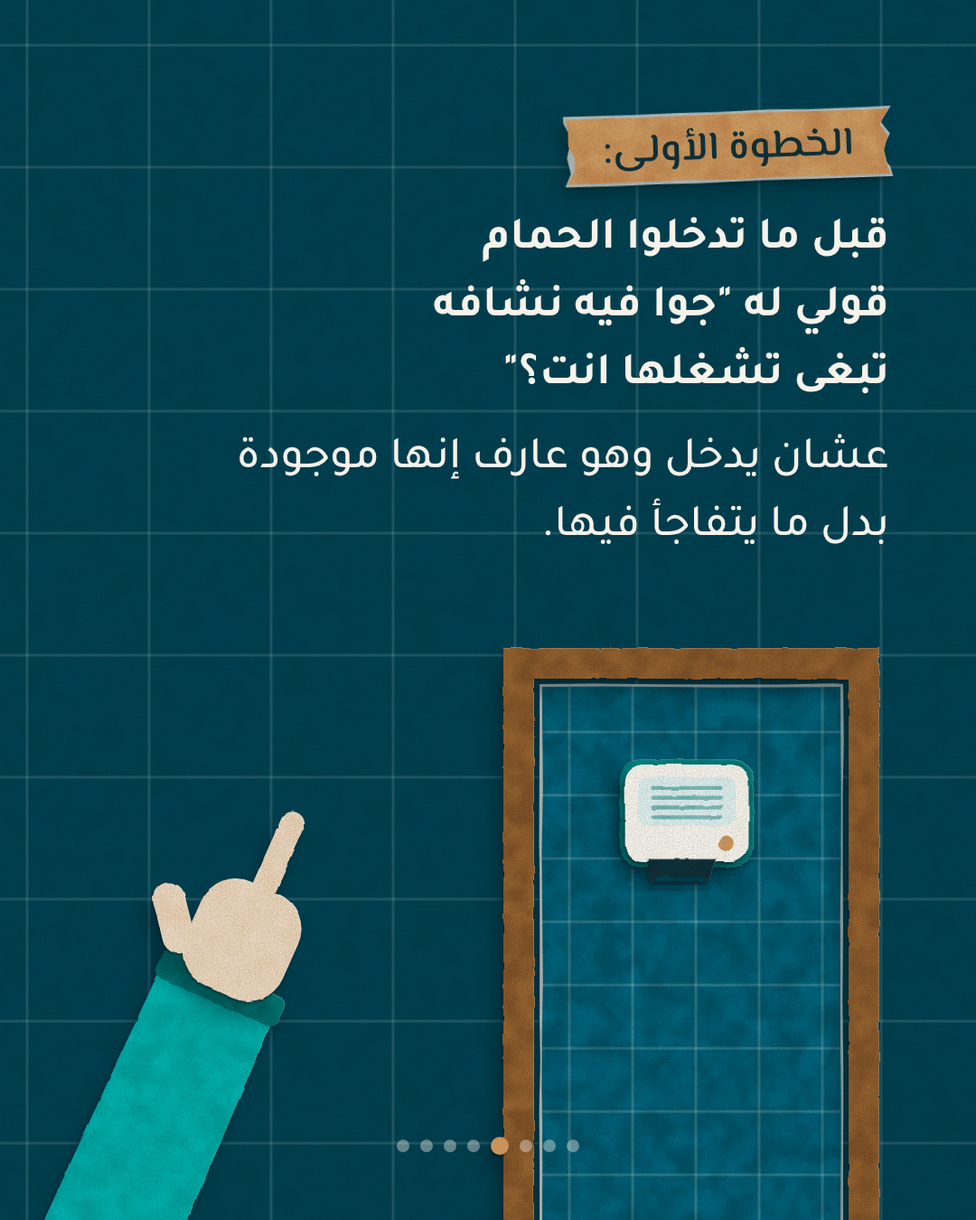
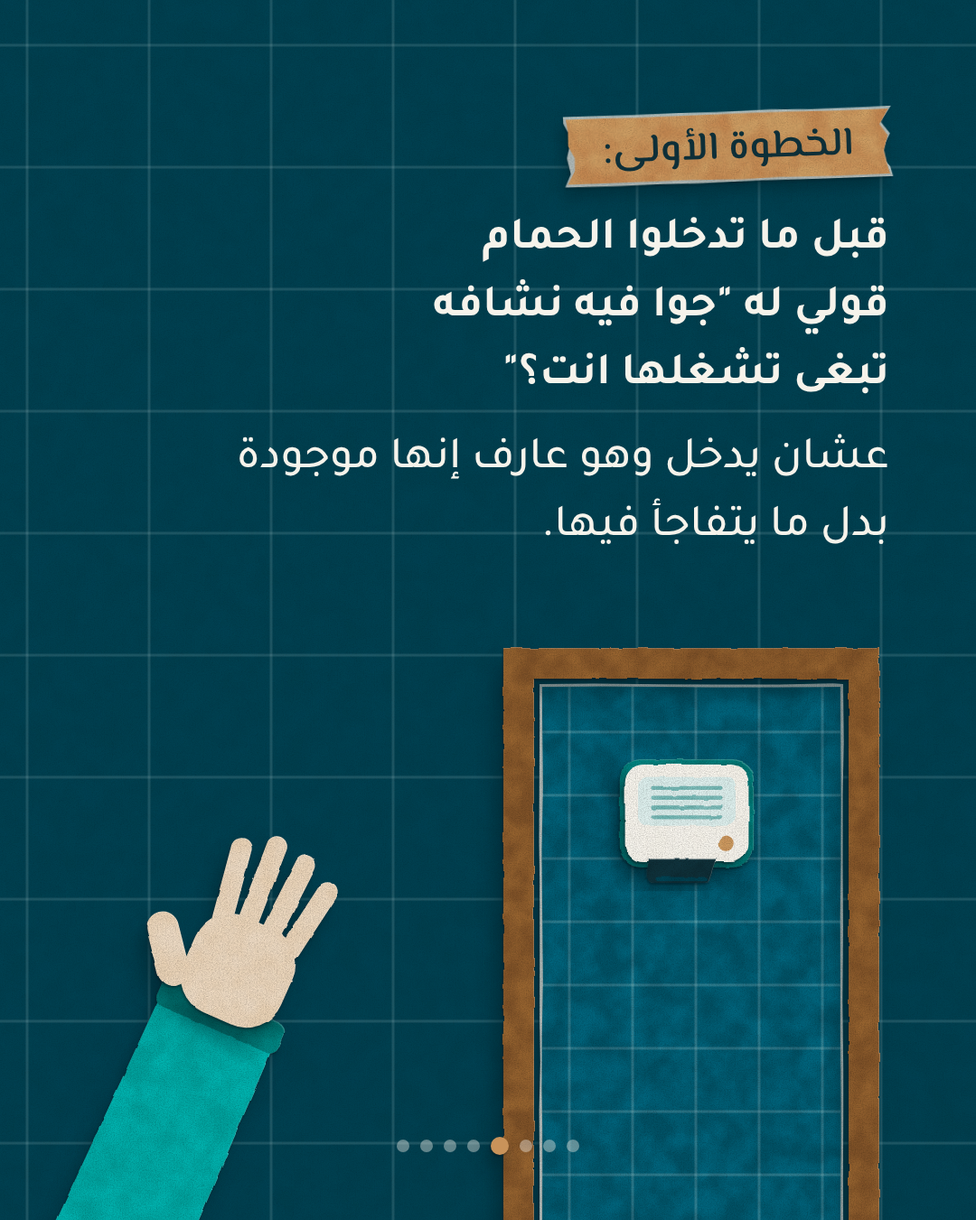
Batch 3: hand dryer fixes (no pointing finger on step 1, no bent thumbs on slide 1)
Claude-Session: https://claude.ai/code/session_01AkVcjtcCvi7vzmk2eT91xs

Changed region(s): [[0.0917, 0.6533, 0.3667, 0.9644], [0.0306, 0.9333, 0.0917, 1.0], [0.1833, 0.9644, 0.2139, 1.0]]

diff --git a/app/output_b3/b3p11/slide-1.html b/app/output_b3/b3p11/slide-1.html
@@ -281,7 +281,7 @@
 
 <svg class="art" viewBox="0 0 1080 1350" xmlns="http://www.w3.org/2000/svg">
 <rect x="0" y="0" width="1080" height="1350" fill="#003F4F" filter="url(#pg)" />
-<g stroke="#DCEEEC" stroke-opacity="0.13" stroke-width="3" fill="none"><path d="M 30 0 V 1350" /><path d="M 165 0 V 1350" /><path d="M 300 0 V 1350" /><path d="M 435 0 V 1350" /><path d="M 570 0 V 1350" /><path d="M 705 0 V 1350" /><path d="M 840 0 V 1350" /><path d="M 975 0 V 1350" /><path d="M 0 50 H 1080" /><path d="M 0 185 H 1080" /><path d="M 0 320 H 1080" /><path d="M 0 455 H 1080" /><path d="M 0 590 H 1080" /><path d="M 0 725 H 1080" /><path d="M 0 860 H 1080" /><path d="M 0 995 H 1080" /><path d="M 0 1130 H 1080" /><path d="M 0 1265 H 1080" /></g><g data-avoid="dryer"><g filter="url(#pc-d1)" ><g transform="translate(300 930) scale(0.9)"><rect x="-206" y="-166" width="412" height="332" rx="64" fill="#007A77"/></g></g><g filter="url(#pc-d2)" ><g transform="translate(300 930) scale(0.9)"><rect x="-190" y="-150" width="380" height="300" rx="56" fill="#F6F3EB"/><rect x="-150" y="-112" width="300" height="150" rx="30" fill="#DCEEEC"/><rect x="-110" y="-84" width="220" height="12" rx="6" fill="#007A77" fill-opacity=".45"/><rect x="-110" y="-54" width="220" height="12" rx="6" fill="#007A77" fill-opacity=".45"/><rect x="-110" y="-24" width="220" height="12" rx="6" fill="#007A77" fill-opacity=".45"/><rect x="-110" y="6" width="220" height="12" rx="6" fill="#007A77" fill-opacity=".45"/><circle cx="120" cy="92" r="24" fill="#C9935A"/></g></g><g filter="url(#pc-d3)" ><g transform="translate(300 930) scale(0.9)"><path d="M -120 140 L 90 140 L 70 200 Q 66 214 52 214 L -102 214 Q -116 214 -120 200 Z" fill="#0E2F38"/><rect x="-96" y="196" width="160" height="12" rx="6" fill="#003F4F"/></g></g><g filter="url(#pt-d2)" ><polygon points="218.6,1132.4 217.2,1148.1 217.4,1163.9 212.6,1179.4 211.4,1195.2 210.8,1210.9 209.9,1226.7 223.7,1227.5 218.7,1211.4 219.3,1195.6 225.6,1180.2 222.6,1164.2 221.4,1148.3 227.8,1132.9" fill="#F6F3EB" fill-opacity="0.7"/><polygon points="219.2,1132.4 215.3,1148.0 216.7,1163.9 219.1,1179.8 215.2,1195.4 212.8,1211.1 215.0,1227.0 219.6,1227.2 218.1,1211.4 216.9,1195.5 217.7,1179.7 219.6,1164.0 220.5,1148.3 225.8,1132.8" fill="#F6F3EB"/></g><g filter="url(#pt-d2)" ><polygon points="244.6,1132.2 245.6,1146.8 242.8,1161.2 241.3,1175.7 242.6,1190.2 241.1,1204.7 241.9,1219.3 239.1,1233.7 242.2,1248.3 244.0,1262.9 250.4,1263.2 248.2,1248.6 255.0,1234.3 250.6,1219.6 255.9,1205.3 254.8,1190.7 254.5,1176.2 258.3,1161.8 254.2,1147.1 258.4,1132.8" fill="#F6F3EB" fill-opacity="0.7"/><polygon points="250.3,1132.5 247.5,1146.9 247.4,1161.4 245.6,1175.8 244.2,1190.3 246.7,1204.9 247.7,1219.5 247.0,1234.0 242.1,1248.3 243.3,1262.9 250.8,1263.2 246.7,1248.5 250.3,1234.1 247.6,1219.5 251.8,1205.1 250.4,1190.6 254.4,1176.2 255.2,1161.7 253.9,1147.1 252.7,1132.6" fill="#DCEEEC"/></g><g filter="url(#pt-d2)" ><polygon points="280.5,1132.4 273.5,1147.8 278.0,1163.9 273.0,1179.4 275.0,1195.3 270.0,1210.8 271.8,1226.7 282.6,1227.3 285.2,1211.7 284.3,1195.8 287.3,1180.2 287.8,1164.4 288.3,1148.7 283.4,1132.6" fill="#F6F3EB" fill-opacity="0.7"/><polygon points="278.5,1132.3 278.6,1148.1 279.9,1164.0 276.5,1179.6 276.5,1195.4 272.2,1210.9 273.8,1226.8 278.8,1227.1 278.9,1211.3 281.6,1195.7 282.1,1179.9 280.6,1164.0 280.1,1148.2 283.6,1132.6" fill="#F6F3EB"/></g><g filter="url(#pt-d2)" ><polygon points="308.9,1132.3 309.3,1146.9 309.0,1161.4 302.7,1175.7 307.1,1190.4 307.3,1204.9 304.9,1219.3 300.3,1233.7 305.9,1248.4 298.8,1262.7 309.4,1263.1 310.3,1248.6 315.9,1234.3 310.4,1219.6 317.7,1205.3 315.8,1190.7 315.5,1176.2 315.6,1161.7 315.1,1147.1 319.6,1132.8" fill="#F6F3EB" fill-opacity="0.7"/><polygon points="313.6,1132.5 308.4,1146.9 308.3,1161.4 305.8,1175.8 308.8,1190.4 305.1,1204.8 307.3,1219.4 308.4,1234.0 307.9,1248.5 306.1,1263.0 305.8,1262.9 312.4,1248.7 311.2,1234.1 308.0,1219.5 309.6,1205.0 311.8,1190.6 313.2,1176.1 313.4,1161.6 315.6,1147.1 317.4,1132.7" fill="#DCEEEC"/></g><g filter="url(#pt-d2)" ><polygon points="340.1,1132.3 340.0,1148.1 335.1,1163.6 334.2,1179.4 337.9,1195.4 335.5,1211.1 332.1,1226.7 341.2,1227.2 346.0,1211.7 344.4,1195.8 347.4,1180.1 347.3,1164.3 350.1,1148.7 350.7,1132.9" fill="#F6F3EB" fill-opacity="0.7"/><polygon points="341.1,1132.4 337.9,1148.0 336.2,1163.7 337.7,1179.6 338.4,1195.4 337.8,1211.2 332.8,1226.7 341.0,1227.2 337.9,1211.2 341.3,1195.6 345.4,1180.0 341.1,1164.0 347.2,1148.5 348.2,1132.8" fill="#F6F3EB"/></g></g><g data-avoid="arcs"><g filter="url(#pt-d2)" ><polygon points="108.6,1019.7 102.2,1009.8 95.0,999.8 94.1,987.9 91.7,976.5 88.3,965.2 85.2,953.8 85.9,942.0 88.6,930.4 83.4,918.4 89.1,907.3 88.1,895.3 94.6,884.9 92.9,872.4 98.8,862.1 103.3,851.4 104.3,838.5 86.7,830.8 83.2,842.7 73.7,852.8 71.8,865.8 67.8,878.2 66.6,891.1 66.4,904.1 63.1,916.7 64.1,929.7 63.2,942.6 63.9,955.5 65.3,968.4 70.6,980.6 68.8,994.2 73.0,1006.7 77.5,1018.9 84.3,1030.2" fill="#F6F3EB" fill-opacity="0.7"/><polygon points="104.5,1021.4 100.4,1010.4 96.7,999.3 90.5,988.8 90.5,976.7 86.8,965.4 81.8,954.1 84.2,942.0 84.0,930.2 84.9,918.5 85.9,906.8 89.3,895.5 90.4,883.8 92.4,872.2 96.9,861.4 100.9,850.4 106.6,839.5 85.8,830.5 84.1,843.1 78.3,854.5 78.1,867.8 71.4,879.1 68.3,891.5 71.3,904.8 66.1,917.0 63.5,929.7 66.9,942.5 66.1,955.3 67.1,968.2 72.6,980.2 74.6,992.8 75.9,1005.7 80.8,1017.7 88.1,1028.5" fill="#C9935A"/></g><g filter="url(#pt-d2)" ><polygon points="58.5,1043.0 53.0,1029.5 44.6,1017.0 44.0,1002.0 35.6,988.8 33.1,974.3 34.7,959.4 34.3,944.9 31.9,930.3 31.3,915.6 36.0,901.5 37.4,887.0 39.2,872.5 43.0,858.5 41.9,842.6 50.9,830.3 56.3,816.1 40.7,809.3 34.9,823.4 23.6,835.8 19.3,851.2 14.6,866.4 12.8,882.2 12.8,898.3 10.8,913.9 8.5,929.7 11.8,945.5 12.1,961.2 14.1,976.9 15.2,992.8 19.8,1008.0 28.9,1021.8 28.6,1038.6 35.4,1053.0" fill="#F6F3EB" fill-opacity="0.7"/><polygon points="55.7,1044.2 46.2,1032.0 44.1,1017.1 40.2,1002.9 34.5,989.0 32.8,974.3 29.0,959.9 28.6,945.0 25.3,930.1 31.7,915.6 28.4,900.4 34.7,886.5 34.9,871.4 38.2,857.0 41.3,842.4 50.2,830.0 52.0,814.2 37.9,808.1 34.1,823.0 26.2,836.8 23.9,852.6 22.4,868.3 17.1,883.1 12.6,898.2 15.9,914.3 17.0,929.9 14.8,945.4 14.4,961.1 20.3,976.1 20.0,991.9 21.6,1007.6 30.1,1021.4 31.5,1037.5 43.4,1049.5" fill="#8A5A2B"/></g><g filter="url(#pt-d2)" ><polygon points="5.9,1067.4 -1.0,1051.1 -9.8,1035.3 -12.6,1017.7 -19.0,1000.9 -19.4,983.0 -21.7,965.5 -22.4,947.9 -25.6,930.2 -23.3,912.6 -23.2,894.8 -20.7,877.3 -15.7,860.3 -15.2,842.0 -4.9,826.8 -1.8,809.0 4.8,792.1 -10.6,785.5 -19.0,801.6 -25.5,819.2 -29.5,837.6 -34.6,855.6 -37.4,874.0 -41.2,892.4 -41.7,911.1 -40.8,929.8 -40.7,948.4 -39.5,967.0 -38.8,985.7 -35.1,1004.0 -27.8,1021.5 -20.2,1038.5 -18.7,1057.6 -9.5,1074.1" fill="#F6F3EB" fill-opacity="0.7"/><polygon points="1.9,1069.1 -5.9,1052.9 -10.7,1035.6 -12.9,1017.7 -22.7,1001.6 -24.4,983.7 -26.3,965.9 -28.2,948.0 -27.2,930.2 -25.1,912.5 -26.9,894.3 -19.8,877.5 -17.8,859.8 -13.5,842.5 -11.2,824.5 -1.9,809.0 4.3,791.9 -7.8,786.7 -12.7,804.4 -18.9,821.6 -25.9,838.7 -32.5,856.1 -35.9,874.3 -34.2,893.3 -37.9,911.4 -39.5,929.8 -38.7,948.3 -33.9,966.5 -36.6,985.3 -32.0,1003.4 -26.6,1021.2 -20.5,1038.6 -12.3,1055.3 -5.7,1072.4" fill="#C9935A"/></g><g filter="url(#pt-d2)" ><polygon points="491.4,840.3 497.8,850.2 505.0,860.2 505.9,872.1 508.3,883.5 511.7,894.8 514.8,906.2 514.1,918.0 511.4,929.6 516.6,941.6 510.9,952.7 511.9,964.7 505.4,975.1 507.1,987.6 501.2,997.9 496.7,1008.6 495.7,1021.5 513.3,1029.2 516.8,1017.3 526.3,1007.2 528.2,994.2 532.2,981.8 533.4,968.9 533.6,955.9 536.9,943.3 535.9,930.3 536.8,917.4 536.1,904.5 534.7,891.6 529.4,879.4 531.2,865.8 527.0,853.3 522.5,841.1 515.7,829.8" fill="#F6F3EB" fill-opacity="0.7"/><polygon points="495.5,838.6 499.6,849.6 503.3,860.7 509.5,871.2 509.5,883.3 513.2,894.6 518.2,905.9 515.8,918.0 516.0,929.8 515.1,941.5 514.1,953.2 510.7,964.5 509.6,976.2 507.6,987.8 503.1,998.6 499.1,1009.6 493.4,1020.5 514.2,1029.5 515.9,1016.9 521.7,1005.5 521.9,992.2 528.6,980.9 531.7,968.5 528.7,955.2 533.9,943.0 536.5,930.3 533.1,917.5 533.9,904.7 532.9,891.8 527.4,879.8 525.4,867.2 524.1,854.3 519.2,842.3 511.9,831.5" fill="#C9935A"/></g><g filter="url(#pt-d2)" ><polygon points="541.5,817.0 547.0,830.5 555.4,843.0 556.0,858.0 564.4,871.2 566.9,885.7 565.3,900.6 565.7,915.1 568.1,929.7 568.7,944.4 564.0,958.5 562.6,973.0 560.8,987.5 557.0,1001.5 558.1,1017.4 549.1,1029.7 543.7,1043.9 559.3,1050.7 565.1,1036.6 576.4,1024.2 580.7,1008.8 585.4,993.6 587.2,977.8 587.2,961.7 589.2,946.1 591.5,930.3 588.2,914.5 587.9,898.8 585.9,883.1 584.8,867.2 580.2,852.0 571.1,838.2 571.4,821.4 564.6,807.0" fill="#F6F3EB" fill-opacity="0.7"/><polygon points="544.3,815.8 553.8,828.0 555.9,842.9 559.8,857.1 565.5,871.0 567.2,885.7 571.0,900.1 571.4,915.0 574.7,929.9 568.3,944.4 571.6,959.6 565.3,973.5 565.1,988.6 561.8,1003.0 558.7,1017.6 549.8,1030.0 548.0,1045.8 562.1,1051.9 565.9,1037.0 573.8,1023.2 576.1,1007.4 577.6,991.7 582.9,976.9 587.4,961.8 584.1,945.7 583.0,930.1 585.2,914.6 585.6,898.9 579.7,883.9 580.0,868.1 578.4,852.4 569.9,838.6 568.5,822.5 556.6,810.5" fill="#8A5A2B"/></g><g filter="url(#pt-d2)" ><polygon points="594.1,792.6 601.0,808.9 609.8,824.7 612.6,842.3 619.0,859.1 619.4,877.0 621.7,894.5 622.4,912.1 625.6,929.8 623.3,947.4 623.2,965.2 620.7,982.7 615.7,999.7 615.2,1018.0 604.9,1033.2 601.8,1051.0 595.2,1067.9 610.6,1074.5 619.0,1058.4 625.5,1040.8 629.5,1022.4 634.6,1004.4 637.4,986.0 641.2,967.6 641.7,948.9 640.8,930.2 640.7,911.6 639.5,893.0 638.8,874.3 635.1,856.0 627.8,838.5 620.2,821.5 618.7,802.4 609.5,785.9" fill="#F6F3EB" fill-opacity="0.7"/><polygon points="598.1,790.9 605.9,807.1 610.7,824.4 612.9,842.3 622.7,858.4 624.4,876.3 626.3,894.1 628.2,912.0 627.2,929.8 625.1,947.5 626.9,965.7 619.8,982.5 617.8,1000.2 613.5,1017.5 611.2,1035.5 601.9,1051.0 595.7,1068.1 607.8,1073.3 612.7,1055.6 618.9,1038.4 625.9,1021.3 632.5,1003.9 635.9,985.7 634.2,966.7 637.9,948.6 639.5,930.2 638.7,911.7 633.9,893.5 636.6,874.7 632.0,856.6 626.6,838.8 620.5,821.4 612.3,804.7 605.7,787.6" fill="#C9935A"/></g></g><g data-avoid="head"><g filter="url(#pc-d1)" ><path d="M 538.0 1548.0 Q 552.5 1352.25 770 1345 Q 987.5 1352.25 1002.0 1548.0 Z" fill="#00A9A5"/><rect x="726.5" y="1279.75" width="87.0" height="87.0" rx="29.0" fill="#EBD6BC"/></g><g filter="url(#pc-d2)" ><circle cx="770" cy="1200" r="145" fill="#8A5A2B"/></g><g filter="url(#pc-d3)" ><g transform="translate(625.0 1214.5) rotate(14)"><path d="M -10 40 L -130 600 L -330 600 L -110 40 Z" fill="#F6F3EB"/><rect x="-80" y="30" width="80" height="40" rx="12" fill="#DCEEEC"/><rect x="-54" y="-40" width="108" height="110" rx="40" fill="#EBD6BC"/><rect x="-50" y="-100" width="22" height="110" rx="11" fill="#EBD6BC" transform="rotate(-7.5 -39 0)"/><rect x="-24" y="-112" width="22" height="110" rx="11" fill="#EBD6BC" transform="rotate(-2.5 -13 0)"/><rect x="2" y="-112" width="22" height="110" rx="11" fill="#EBD6BC" transform="rotate(2.5 13 0)"/><rect x="28" y="-100" width="22" height="110" rx="11" fill="#EBD6BC" transform="rotate(7.5 39 0)"/><rect x="53" y="-20" width="34" height="84" rx="17" fill="#EBD6BC" transform="rotate(-30 70 20)"/></g></g><g filter="url(#pc-d3)" ><g transform="translate(915.0 1214.5) rotate(-14)"><path d="M 10 40 L 130 600 L 330 600 L 110 40 Z" fill="#F6F3EB"/><rect x="20" y="30" width="80" height="40" rx="12" fill="#DCEEEC"/><rect x="-54" y="-40" width="108" height="110" rx="40" fill="#EBD6BC"/><rect x="-50" y="-100" width="22" height="110" rx="11" fill="#EBD6BC" transform="rotate(-7.5 -39 0)"/><rect x="-24" y="-112" width="22" height="110" rx="11" fill="#EBD6BC" transform="rotate(-2.5 -13 0)"/><rect x="2" y="-112" width="22" height="110" rx="11" fill="#EBD6BC" transform="rotate(2.5 13 0)"/><rect x="28" y="-100" width="22" height="110" rx="11" fill="#EBD6BC" transform="rotate(7.5 39 0)"/><rect x="-87" y="-20" width="34" height="84" rx="17" fill="#EBD6BC" transform="rotate(30 -70 20)"/></g></g><g filter="url(#pc-d1)" ><path d="M 581.5 1311.3 Q 593.5 1328.1 581.5 1342.5 Q 569.5 1328.1 581.5 1311.3 Z" fill="#00A9A5"/></g><g filter="url(#pc-d1)" ><path d="M 965.75 1325.8 Q 977.75 1342.6 965.75 1357.0 Q 953.75 1342.6 965.75 1325.8 Z" fill="#00A9A5"/></g><g filter="url(#pc-d1)" ><path d="M 610.5 1376.55 Q 622.5 1393.35 610.5 1407.75 Q 598.5 1393.35 610.5 1376.55 Z" fill="#00A9A5"/></g></g>
+<g stroke="#DCEEEC" stroke-opacity="0.13" stroke-width="3" fill="none"><path d="M 30 0 V 1350" /><path d="M 165 0 V 1350" /><path d="M 300 0 V 1350" /><path d="M 435 0 V 1350" /><path d="M 570 0 V 1350" /><path d="M 705 0 V 1350" /><path d="M 840 0 V 1350" /><path d="M 975 0 V 1350" /><path d="M 0 50 H 1080" /><path d="M 0 185 H 1080" /><path d="M 0 320 H 1080" /><path d="M 0 455 H 1080" /><path d="M 0 590 H 1080" /><path d="M 0 725 H 1080" /><path d="M 0 860 H 1080" /><path d="M 0 995 H 1080" /><path d="M 0 1130 H 1080" /><path d="M 0 1265 H 1080" /></g><g data-avoid="dryer"><g filter="url(#pc-d1)" ><g transform="translate(300 930) scale(0.9)"><rect x="-206" y="-166" width="412" height="332" rx="64" fill="#007A77"/></g></g><g filter="url(#pc-d2)" ><g transform="translate(300 930) scale(0.9)"><rect x="-190" y="-150" width="380" height="300" rx="56" fill="#F6F3EB"/><rect x="-150" y="-112" width="300" height="150" rx="30" fill="#DCEEEC"/><rect x="-110" y="-84" width="220" height="12" rx="6" fill="#007A77" fill-opacity=".45"/><rect x="-110" y="-54" width="220" height="12" rx="6" fill="#007A77" fill-opacity=".45"/><rect x="-110" y="-24" width="220" height="12" rx="6" fill="#007A77" fill-opacity=".45"/><rect x="-110" y="6" width="220" height="12" rx="6" fill="#007A77" fill-opacity=".45"/><circle cx="120" cy="92" r="24" fill="#C9935A"/></g></g><g filter="url(#pc-d3)" ><g transform="translate(300 930) scale(0.9)"><path d="M -120 140 L 90 140 L 70 200 Q 66 214 52 214 L -102 214 Q -116 214 -120 200 Z" fill="#0E2F38"/><rect x="-96" y="196" width="160" height="12" rx="6" fill="#003F4F"/></g></g><g filter="url(#pt-d2)" ><polygon points="218.6,1132.4 217.2,1148.1 217.4,1163.9 212.6,1179.4 211.4,1195.2 210.8,1210.9 209.9,1226.7 223.7,1227.5 218.7,1211.4 219.3,1195.6 225.6,1180.2 222.6,1164.2 221.4,1148.3 227.8,1132.9" fill="#F6F3EB" fill-opacity="0.7"/><polygon points="219.2,1132.4 215.3,1148.0 216.7,1163.9 219.1,1179.8 215.2,1195.4 212.8,1211.1 215.0,1227.0 219.6,1227.2 218.1,1211.4 216.9,1195.5 217.7,1179.7 219.6,1164.0 220.5,1148.3 225.8,1132.8" fill="#F6F3EB"/></g><g filter="url(#pt-d2)" ><polygon points="244.6,1132.2 245.6,1146.8 242.8,1161.2 241.3,1175.7 242.6,1190.2 241.1,1204.7 241.9,1219.3 239.1,1233.7 242.2,1248.3 244.0,1262.9 250.4,1263.2 248.2,1248.6 255.0,1234.3 250.6,1219.6 255.9,1205.3 254.8,1190.7 254.5,1176.2 258.3,1161.8 254.2,1147.1 258.4,1132.8" fill="#F6F3EB" fill-opacity="0.7"/><polygon points="250.3,1132.5 247.5,1146.9 247.4,1161.4 245.6,1175.8 244.2,1190.3 246.7,1204.9 247.7,1219.5 247.0,1234.0 242.1,1248.3 243.3,1262.9 250.8,1263.2 246.7,1248.5 250.3,1234.1 247.6,1219.5 251.8,1205.1 250.4,1190.6 254.4,1176.2 255.2,1161.7 253.9,1147.1 252.7,1132.6" fill="#DCEEEC"/></g><g filter="url(#pt-d2)" ><polygon points="280.5,1132.4 273.5,1147.8 278.0,1163.9 273.0,1179.4 275.0,1195.3 270.0,1210.8 271.8,1226.7 282.6,1227.3 285.2,1211.7 284.3,1195.8 287.3,1180.2 287.8,1164.4 288.3,1148.7 283.4,1132.6" fill="#F6F3EB" fill-opacity="0.7"/><polygon points="278.5,1132.3 278.6,1148.1 279.9,1164.0 276.5,1179.6 276.5,1195.4 272.2,1210.9 273.8,1226.8 278.8,1227.1 278.9,1211.3 281.6,1195.7 282.1,1179.9 280.6,1164.0 280.1,1148.2 283.6,1132.6" fill="#F6F3EB"/></g><g filter="url(#pt-d2)" ><polygon points="308.9,1132.3 309.3,1146.9 309.0,1161.4 302.7,1175.7 307.1,1190.4 307.3,1204.9 304.9,1219.3 300.3,1233.7 305.9,1248.4 298.8,1262.7 309.4,1263.1 310.3,1248.6 315.9,1234.3 310.4,1219.6 317.7,1205.3 315.8,1190.7 315.5,1176.2 315.6,1161.7 315.1,1147.1 319.6,1132.8" fill="#F6F3EB" fill-opacity="0.7"/><polygon points="313.6,1132.5 308.4,1146.9 308.3,1161.4 305.8,1175.8 308.8,1190.4 305.1,1204.8 307.3,1219.4 308.4,1234.0 307.9,1248.5 306.1,1263.0 305.8,1262.9 312.4,1248.7 311.2,1234.1 308.0,1219.5 309.6,1205.0 311.8,1190.6 313.2,1176.1 313.4,1161.6 315.6,1147.1 317.4,1132.7" fill="#DCEEEC"/></g><g filter="url(#pt-d2)" ><polygon points="340.1,1132.3 340.0,1148.1 335.1,1163.6 334.2,1179.4 337.9,1195.4 335.5,1211.1 332.1,1226.7 341.2,1227.2 346.0,1211.7 344.4,1195.8 347.4,1180.1 347.3,1164.3 350.1,1148.7 350.7,1132.9" fill="#F6F3EB" fill-opacity="0.7"/><polygon points="341.1,1132.4 337.9,1148.0 336.2,1163.7 337.7,1179.6 338.4,1195.4 337.8,1211.2 332.8,1226.7 341.0,1227.2 337.9,1211.2 341.3,1195.6 345.4,1180.0 341.1,1164.0 347.2,1148.5 348.2,1132.8" fill="#F6F3EB"/></g></g><g data-avoid="arcs"><g filter="url(#pt-d2)" ><polygon points="108.6,1019.7 102.2,1009.8 95.0,999.8 94.1,987.9 91.7,976.5 88.3,965.2 85.2,953.8 85.9,942.0 88.6,930.4 83.4,918.4 89.1,907.3 88.1,895.3 94.6,884.9 92.9,872.4 98.8,862.1 103.3,851.4 104.3,838.5 86.7,830.8 83.2,842.7 73.7,852.8 71.8,865.8 67.8,878.2 66.6,891.1 66.4,904.1 63.1,916.7 64.1,929.7 63.2,942.6 63.9,955.5 65.3,968.4 70.6,980.6 68.8,994.2 73.0,1006.7 77.5,1018.9 84.3,1030.2" fill="#F6F3EB" fill-opacity="0.7"/><polygon points="104.5,1021.4 100.4,1010.4 96.7,999.3 90.5,988.8 90.5,976.7 86.8,965.4 81.8,954.1 84.2,942.0 84.0,930.2 84.9,918.5 85.9,906.8 89.3,895.5 90.4,883.8 92.4,872.2 96.9,861.4 100.9,850.4 106.6,839.5 85.8,830.5 84.1,843.1 78.3,854.5 78.1,867.8 71.4,879.1 68.3,891.5 71.3,904.8 66.1,917.0 63.5,929.7 66.9,942.5 66.1,955.3 67.1,968.2 72.6,980.2 74.6,992.8 75.9,1005.7 80.8,1017.7 88.1,1028.5" fill="#C9935A"/></g><g filter="url(#pt-d2)" ><polygon points="58.5,1043.0 53.0,1029.5 44.6,1017.0 44.0,1002.0 35.6,988.8 33.1,974.3 34.7,959.4 34.3,944.9 31.9,930.3 31.3,915.6 36.0,901.5 37.4,887.0 39.2,872.5 43.0,858.5 41.9,842.6 50.9,830.3 56.3,816.1 40.7,809.3 34.9,823.4 23.6,835.8 19.3,851.2 14.6,866.4 12.8,882.2 12.8,898.3 10.8,913.9 8.5,929.7 11.8,945.5 12.1,961.2 14.1,976.9 15.2,992.8 19.8,1008.0 28.9,1021.8 28.6,1038.6 35.4,1053.0" fill="#F6F3EB" fill-opacity="0.7"/><polygon points="55.7,1044.2 46.2,1032.0 44.1,1017.1 40.2,1002.9 34.5,989.0 32.8,974.3 29.0,959.9 28.6,945.0 25.3,930.1 31.7,915.6 28.4,900.4 34.7,886.5 34.9,871.4 38.2,857.0 41.3,842.4 50.2,830.0 52.0,814.2 37.9,808.1 34.1,823.0 26.2,836.8 23.9,852.6 22.4,868.3 17.1,883.1 12.6,898.2 15.9,914.3 17.0,929.9 14.8,945.4 14.4,961.1 20.3,976.1 20.0,991.9 21.6,1007.6 30.1,1021.4 31.5,1037.5 43.4,1049.5" fill="#8A5A2B"/></g><g filter="url(#pt-d2)" ><polygon points="5.9,1067.4 -1.0,1051.1 -9.8,1035.3 -12.6,1017.7 -19.0,1000.9 -19.4,983.0 -21.7,965.5 -22.4,947.9 -25.6,930.2 -23.3,912.6 -23.2,894.8 -20.7,877.3 -15.7,860.3 -15.2,842.0 -4.9,826.8 -1.8,809.0 4.8,792.1 -10.6,785.5 -19.0,801.6 -25.5,819.2 -29.5,837.6 -34.6,855.6 -37.4,874.0 -41.2,892.4 -41.7,911.1 -40.8,929.8 -40.7,948.4 -39.5,967.0 -38.8,985.7 -35.1,1004.0 -27.8,1021.5 -20.2,1038.5 -18.7,1057.6 -9.5,1074.1" fill="#F6F3EB" fill-opacity="0.7"/><polygon points="1.9,1069.1 -5.9,1052.9 -10.7,1035.6 -12.9,1017.7 -22.7,1001.6 -24.4,983.7 -26.3,965.9 -28.2,948.0 -27.2,930.2 -25.1,912.5 -26.9,894.3 -19.8,877.5 -17.8,859.8 -13.5,842.5 -11.2,824.5 -1.9,809.0 4.3,791.9 -7.8,786.7 -12.7,804.4 -18.9,821.6 -25.9,838.7 -32.5,856.1 -35.9,874.3 -34.2,893.3 -37.9,911.4 -39.5,929.8 -38.7,948.3 -33.9,966.5 -36.6,985.3 -32.0,1003.4 -26.6,1021.2 -20.5,1038.6 -12.3,1055.3 -5.7,1072.4" fill="#C9935A"/></g><g filter="url(#pt-d2)" ><polygon points="491.4,840.3 497.8,850.2 505.0,860.2 505.9,872.1 508.3,883.5 511.7,894.8 514.8,906.2 514.1,918.0 511.4,929.6 516.6,941.6 510.9,952.7 511.9,964.7 505.4,975.1 507.1,987.6 501.2,997.9 496.7,1008.6 495.7,1021.5 513.3,1029.2 516.8,1017.3 526.3,1007.2 528.2,994.2 532.2,981.8 533.4,968.9 533.6,955.9 536.9,943.3 535.9,930.3 536.8,917.4 536.1,904.5 534.7,891.6 529.4,879.4 531.2,865.8 527.0,853.3 522.5,841.1 515.7,829.8" fill="#F6F3EB" fill-opacity="0.7"/><polygon points="495.5,838.6 499.6,849.6 503.3,860.7 509.5,871.2 509.5,883.3 513.2,894.6 518.2,905.9 515.8,918.0 516.0,929.8 515.1,941.5 514.1,953.2 510.7,964.5 509.6,976.2 507.6,987.8 503.1,998.6 499.1,1009.6 493.4,1020.5 514.2,1029.5 515.9,1016.9 521.7,1005.5 521.9,992.2 528.6,980.9 531.7,968.5 528.7,955.2 533.9,943.0 536.5,930.3 533.1,917.5 533.9,904.7 532.9,891.8 527.4,879.8 525.4,867.2 524.1,854.3 519.2,842.3 511.9,831.5" fill="#C9935A"/></g><g filter="url(#pt-d2)" ><polygon points="541.5,817.0 547.0,830.5 555.4,843.0 556.0,858.0 564.4,871.2 566.9,885.7 565.3,900.6 565.7,915.1 568.1,929.7 568.7,944.4 564.0,958.5 562.6,973.0 560.8,987.5 557.0,1001.5 558.1,1017.4 549.1,1029.7 543.7,1043.9 559.3,1050.7 565.1,1036.6 576.4,1024.2 580.7,1008.8 585.4,993.6 587.2,977.8 587.2,961.7 589.2,946.1 591.5,930.3 588.2,914.5 587.9,898.8 585.9,883.1 584.8,867.2 580.2,852.0 571.1,838.2 571.4,821.4 564.6,807.0" fill="#F6F3EB" fill-opacity="0.7"/><polygon points="544.3,815.8 553.8,828.0 555.9,842.9 559.8,857.1 565.5,871.0 567.2,885.7 571.0,900.1 571.4,915.0 574.7,929.9 568.3,944.4 571.6,959.6 565.3,973.5 565.1,988.6 561.8,1003.0 558.7,1017.6 549.8,1030.0 548.0,1045.8 562.1,1051.9 565.9,1037.0 573.8,1023.2 576.1,1007.4 577.6,991.7 582.9,976.9 587.4,961.8 584.1,945.7 583.0,930.1 585.2,914.6 585.6,898.9 579.7,883.9 580.0,868.1 578.4,852.4 569.9,838.6 568.5,822.5 556.6,810.5" fill="#8A5A2B"/></g><g filter="url(#pt-d2)" ><polygon points="594.1,792.6 601.0,808.9 609.8,824.7 612.6,842.3 619.0,859.1 619.4,877.0 621.7,894.5 622.4,912.1 625.6,929.8 623.3,947.4 623.2,965.2 620.7,982.7 615.7,999.7 615.2,1018.0 604.9,1033.2 601.8,1051.0 595.2,1067.9 610.6,1074.5 619.0,1058.4 625.5,1040.8 629.5,1022.4 634.6,1004.4 637.4,986.0 641.2,967.6 641.7,948.9 640.8,930.2 640.7,911.6 639.5,893.0 638.8,874.3 635.1,856.0 627.8,838.5 620.2,821.5 618.7,802.4 609.5,785.9" fill="#F6F3EB" fill-opacity="0.7"/><polygon points="598.1,790.9 605.9,807.1 610.7,824.4 612.9,842.3 622.7,858.4 624.4,876.3 626.3,894.1 628.2,912.0 627.2,929.8 625.1,947.5 626.9,965.7 619.8,982.5 617.8,1000.2 613.5,1017.5 611.2,1035.5 601.9,1051.0 595.7,1068.1 607.8,1073.3 612.7,1055.6 618.9,1038.4 625.9,1021.3 632.5,1003.9 635.9,985.7 634.2,966.7 637.9,948.6 639.5,930.2 638.7,911.7 633.9,893.5 636.6,874.7 632.0,856.6 626.6,838.8 620.5,821.4 612.3,804.7 605.7,787.6" fill="#C9935A"/></g></g><g data-avoid="head"><g filter="url(#pc-d1)" ><path d="M 538.0 1548.0 Q 552.5 1352.25 770 1345 Q 987.5 1352.25 1002.0 1548.0 Z" fill="#00A9A5"/><rect x="726.5" y="1279.75" width="87.0" height="87.0" rx="29.0" fill="#EBD6BC"/></g><g filter="url(#pc-d2)" ><circle cx="770" cy="1200" r="145" fill="#8A5A2B"/></g><g filter="url(#pc-d3)" ><g transform="translate(625.0 1214.5) rotate(14)"><path d="M -10 40 L -130 600 L -330 600 L -110 40 Z" fill="#F6F3EB"/><rect x="-80" y="30" width="80" height="40" rx="12" fill="#DCEEEC"/><rect x="-54" y="-40" width="108" height="110" rx="40" fill="#EBD6BC"/><rect x="-50" y="-100" width="22" height="110" rx="11" fill="#EBD6BC" transform="rotate(-7.5 -39 0)"/><rect x="-24" y="-112" width="22" height="110" rx="11" fill="#EBD6BC" transform="rotate(-2.5 -13 0)"/><rect x="2" y="-112" width="22" height="110" rx="11" fill="#EBD6BC" transform="rotate(2.5 13 0)"/><rect x="28" y="-100" width="22" height="110" rx="11" fill="#EBD6BC" transform="rotate(7.5 39 0)"/></g></g><g filter="url(#pc-d3)" ><g transform="translate(915.0 1214.5) rotate(-14)"><path d="M 10 40 L 130 600 L 330 600 L 110 40 Z" fill="#F6F3EB"/><rect x="20" y="30" width="80" height="40" rx="12" fill="#DCEEEC"/><rect x="-54" y="-40" width="108" height="110" rx="40" fill="#EBD6BC"/><rect x="-50" y="-100" width="22" height="110" rx="11" fill="#EBD6BC" transform="rotate(-7.5 -39 0)"/><rect x="-24" y="-112" width="22" height="110" rx="11" fill="#EBD6BC" transform="rotate(-2.5 -13 0)"/><rect x="2" y="-112" width="22" height="110" rx="11" fill="#EBD6BC" transform="rotate(2.5 13 0)"/><rect x="28" y="-100" width="22" height="110" rx="11" fill="#EBD6BC" transform="rotate(7.5 39 0)"/></g></g><g filter="url(#pc-d1)" ><path d="M 581.5 1311.3 Q 593.5 1328.1 581.5 1342.5 Q 569.5 1328.1 581.5 1311.3 Z" fill="#00A9A5"/></g><g filter="url(#pc-d1)" ><path d="M 965.75 1325.8 Q 977.75 1342.6 965.75 1357.0 Q 953.75 1342.6 965.75 1325.8 Z" fill="#00A9A5"/></g><g filter="url(#pc-d1)" ><path d="M 610.5 1376.55 Q 622.5 1393.35 610.5 1407.75 Q 598.5 1393.35 610.5 1376.55 Z" fill="#00A9A5"/></g></g>
 </svg>
 <div class="tx c-pearl " style="left:64px;top:100px;width:920px;text-align:right;"><div class="hook" style="font-size:88px" data-seg data-ord="0" data-sep="none">غطيتي اذاني طفل <br>اول ما اشتغلت <br>نشافه اليدين في المول <br>وطلعتي من الحمام <br>بدون ما تنشفي يدينك.</div></div>
 

diff --git a/app/output_b3/b3p11/slide-4.html b/app/output_b3/b3p11/slide-4.html
@@ -281,7 +281,7 @@
 
 <svg class="art" viewBox="0 0 1080 1350" xmlns="http://www.w3.org/2000/svg">
 <rect x="0" y="0" width="1080" height="1350" fill="#003F4F" filter="url(#pg)" />
-<g stroke="#DCEEEC" stroke-opacity="0.13" stroke-width="3" fill="none"><path d="M 30 0 V 1350" /><path d="M 165 0 V 1350" /><path d="M 300 0 V 1350" /><path d="M 435 0 V 1350" /><path d="M 570 0 V 1350" /><path d="M 705 0 V 1350" /><path d="M 840 0 V 1350" /><path d="M 975 0 V 1350" /><path d="M 0 50 H 1080" /><path d="M 0 185 H 1080" /><path d="M 0 320 H 1080" /><path d="M 0 455 H 1080" /><path d="M 0 590 H 1080" /><path d="M 0 725 H 1080" /><path d="M 0 860 H 1080" /><path d="M 0 995 H 1080" /><path d="M 0 1130 H 1080" /><path d="M 0 1265 H 1080" /></g><g data-avoid="door"><g  ><g filter="url(#pt-d1)" ><polygon points="597.0,757.0 659.0,756.6 735.0,757.2 794.2,757.4 862.2,757.6 921.7,756.3 933.0,757.0 933.7,821.9 932.5,880.8 932.5,956.5 933.0,1027.7 932.3,1107.2 933.2,1183.3 933.2,1231.7 932.9,1299.6 933.1,1356.3 933.0,1363.0 877.8,1362.6 811.3,1363.7 760.6,1362.3 696.7,1363.4 633.2,1362.5 597.0,1363.0 597.0,1288.6 596.6,1228.2 597.8,1175.3 597.1,1129.4 597.2,1052.3 597.1,973.5 596.5,932.6 596.8,864.1 597.1,802.3" fill="#F6F3EB" fill-opacity="0.7"/><polygon points="600.0,760.0 663.1,759.6 735.4,759.9 788.7,760.6 860.4,760.6 930.0,760.0 930.4,815.6 930.8,887.3 930.5,958.9 929.8,1011.2 930.0,1078.2 929.9,1140.4 930.6,1204.4 930.8,1256.5 930.3,1319.2 930.0,1360.0 852.3,1360.6 776.3,1359.4 728.1,1359.5 680.3,1359.8 635.4,1360.3 600.0,1360.0 600.2,1287.0 600.1,1245.6 599.5,1202.0 599.7,1146.4 600.8,1084.1 600.1,1013.0 599.5,939.4 600.8,870.8 600.0,793.1" fill="#005A70"/><g clip-path="none"><g stroke="#DCEEEC" stroke-opacity="0.18" stroke-width="3" fill="none"><path d="M 630 760 V 1360" /><path d="M 700 760 V 1360" /><path d="M 770 760 V 1360" /><path d="M 840 760 V 1360" /><path d="M 910 760 V 1360" /><path d="M 600 810 H 930" /><path d="M 600 880 H 930" /><path d="M 600 950 H 930" /><path d="M 600 1020 H 930" /><path d="M 600 1090 H 930" /><path d="M 600 1160 H 930" /><path d="M 600 1230 H 930" /><path d="M 600 1300 H 930" /></g></g></g></g><g data-avoid="dryer_in"><g filter="url(#pc-d1)" ><g transform="translate(760 900) scale(0.36)"><rect x="-206" y="-166" width="412" height="332" rx="64" fill="#007A77"/></g></g><g filter="url(#pc-d2)" ><g transform="translate(760 900) scale(0.36)"><rect x="-190" y="-150" width="380" height="300" rx="56" fill="#F6F3EB"/><rect x="-150" y="-112" width="300" height="150" rx="30" fill="#DCEEEC"/><rect x="-110" y="-84" width="220" height="12" rx="6" fill="#007A77" fill-opacity=".45"/><rect x="-110" y="-54" width="220" height="12" rx="6" fill="#007A77" fill-opacity=".45"/><rect x="-110" y="-24" width="220" height="12" rx="6" fill="#007A77" fill-opacity=".45"/><rect x="-110" y="6" width="220" height="12" rx="6" fill="#007A77" fill-opacity=".45"/><circle cx="120" cy="92" r="24" fill="#C9935A"/></g></g><g filter="url(#pc-d3)" ><g transform="translate(760 900) scale(0.36)"><path d="M -120 140 L 90 140 L 70 200 Q 66 214 52 214 L -102 214 Q -116 214 -120 200 Z" fill="#0E2F38"/><rect x="-96" y="196" width="160" height="12" rx="6" fill="#003F4F"/></g></g></g><g filter="url(#pc-d3)" ><path d="M 574 1400 V 734 H 956 V 1400" fill="none" stroke="#8A5A2B" stroke-width="34"/></g></g><g data-avoid="small"><g filter="url(#pc-d2)" ><g transform="translate(330 900) rotate(24) scale(1.05)"><path d="M -66 190 L 64 190 L 74 900 L -76 900 Z" fill="#00A9A5"/><rect x="-70" y="184" width="140" height="34" rx="10" fill="#007A77"/></g></g><g filter="url(#pc-d3)" ><g transform="translate(330 900) rotate(24) scale(1.05)"><rect x="-14" y="0" width="26" height="120" rx="13" fill="#EBD6BC"/><rect x="-56" y="86" width="112" height="120" rx="40" fill="#EBD6BC"/><rect x="-92" y="116" width="34" height="76" rx="17" fill="#EBD6BC" transform="rotate(-38 -75 154)"/></g></g></g>
+<g stroke="#DCEEEC" stroke-opacity="0.13" stroke-width="3" fill="none"><path d="M 30 0 V 1350" /><path d="M 165 0 V 1350" /><path d="M 300 0 V 1350" /><path d="M 435 0 V 1350" /><path d="M 570 0 V 1350" /><path d="M 705 0 V 1350" /><path d="M 840 0 V 1350" /><path d="M 975 0 V 1350" /><path d="M 0 50 H 1080" /><path d="M 0 185 H 1080" /><path d="M 0 320 H 1080" /><path d="M 0 455 H 1080" /><path d="M 0 590 H 1080" /><path d="M 0 725 H 1080" /><path d="M 0 860 H 1080" /><path d="M 0 995 H 1080" /><path d="M 0 1130 H 1080" /><path d="M 0 1265 H 1080" /></g><g data-avoid="door"><g  ><g filter="url(#pt-d1)" ><polygon points="597.0,757.0 659.0,756.6 735.0,757.2 794.2,757.4 862.2,757.6 921.7,756.3 933.0,757.0 933.7,821.9 932.5,880.8 932.5,956.5 933.0,1027.7 932.3,1107.2 933.2,1183.3 933.2,1231.7 932.9,1299.6 933.1,1356.3 933.0,1363.0 877.8,1362.6 811.3,1363.7 760.6,1362.3 696.7,1363.4 633.2,1362.5 597.0,1363.0 597.0,1288.6 596.6,1228.2 597.8,1175.3 597.1,1129.4 597.2,1052.3 597.1,973.5 596.5,932.6 596.8,864.1 597.1,802.3" fill="#F6F3EB" fill-opacity="0.7"/><polygon points="600.0,760.0 663.1,759.6 735.4,759.9 788.7,760.6 860.4,760.6 930.0,760.0 930.4,815.6 930.8,887.3 930.5,958.9 929.8,1011.2 930.0,1078.2 929.9,1140.4 930.6,1204.4 930.8,1256.5 930.3,1319.2 930.0,1360.0 852.3,1360.6 776.3,1359.4 728.1,1359.5 680.3,1359.8 635.4,1360.3 600.0,1360.0 600.2,1287.0 600.1,1245.6 599.5,1202.0 599.7,1146.4 600.8,1084.1 600.1,1013.0 599.5,939.4 600.8,870.8 600.0,793.1" fill="#005A70"/><g clip-path="none"><g stroke="#DCEEEC" stroke-opacity="0.18" stroke-width="3" fill="none"><path d="M 630 760 V 1360" /><path d="M 700 760 V 1360" /><path d="M 770 760 V 1360" /><path d="M 840 760 V 1360" /><path d="M 910 760 V 1360" /><path d="M 600 810 H 930" /><path d="M 600 880 H 930" /><path d="M 600 950 H 930" /><path d="M 600 1020 H 930" /><path d="M 600 1090 H 930" /><path d="M 600 1160 H 930" /><path d="M 600 1230 H 930" /><path d="M 600 1300 H 930" /></g></g></g></g><g data-avoid="dryer_in"><g filter="url(#pc-d1)" ><g transform="translate(760 900) scale(0.36)"><rect x="-206" y="-166" width="412" height="332" rx="64" fill="#007A77"/></g></g><g filter="url(#pc-d2)" ><g transform="translate(760 900) scale(0.36)"><rect x="-190" y="-150" width="380" height="300" rx="56" fill="#F6F3EB"/><rect x="-150" y="-112" width="300" height="150" rx="30" fill="#DCEEEC"/><rect x="-110" y="-84" width="220" height="12" rx="6" fill="#007A77" fill-opacity=".45"/><rect x="-110" y="-54" width="220" height="12" rx="6" fill="#007A77" fill-opacity=".45"/><rect x="-110" y="-24" width="220" height="12" rx="6" fill="#007A77" fill-opacity=".45"/><rect x="-110" y="6" width="220" height="12" rx="6" fill="#007A77" fill-opacity=".45"/><circle cx="120" cy="92" r="24" fill="#C9935A"/></g></g><g filter="url(#pc-d3)" ><g transform="translate(760 900) scale(0.36)"><path d="M -120 140 L 90 140 L 70 200 Q 66 214 52 214 L -102 214 Q -116 214 -120 200 Z" fill="#0E2F38"/><rect x="-96" y="196" width="160" height="12" rx="6" fill="#003F4F"/></g></g></g><g filter="url(#pc-d3)" ><path d="M 574 1400 V 734 H 956 V 1400" fill="none" stroke="#8A5A2B" stroke-width="34"/></g></g><g data-avoid="small"><g filter="url(#pc-d2)" ><g transform="translate(330 930) rotate(24) scale(1.05)"><path d="M -66 190 L 64 190 L 74 900 L -76 900 Z" fill="#00A9A5"/><rect x="-70" y="184" width="140" height="34" rx="10" fill="#007A77"/></g></g><g filter="url(#pc-d3)" ><g transform="translate(330 930) rotate(24) scale(1.05)"><rect x="-50" y="20" width="22" height="100" rx="11" fill="#EBD6BC" transform="rotate(-9.0 -39 110)"/><rect x="-24" y="4" width="22" height="116" rx="11" fill="#EBD6BC" transform="rotate(-3.0 -13 110)"/><rect x="2" y="10" width="22" height="110" rx="11" fill="#EBD6BC" transform="rotate(3.0 13 110)"/><rect x="28" y="26" width="22" height="94" rx="11" fill="#EBD6BC" transform="rotate(9.0 39 110)"/><rect x="-58" y="96" width="112" height="110" rx="40" fill="#EBD6BC"/><rect x="-96" y="120" width="34" height="80" rx="17" fill="#EBD6BC" transform="rotate(-38 -79 160)"/></g></g></g>
 </svg>
 <div class="step-tab torn" data-fill="#C9935A" data-seed="3" data-sides="lr" style="top:120px;right:96px"><span class="label" data-seg data-ord="7" data-sep="none">الخطوة الأولى:</span></div><div class="tx c-pearl " style="left:96px;top:230px;width:888px;text-align:right;"><div class="lead" data-seg data-ord="8" data-sep="sp">قبل ما تدخلوا الحمام<span class="dc">،</span> <br>قولي له "جوا فيه نشافه<span class="dc">،</span> <br>تبغى تشغلها انت؟"</div><div class="support" data-seg data-ord="9" data-sep="nl">عشان يدخل وهو عارف إنها موجودة<span class="dc">،</span> <br>بدل ما يتفاجأ فيها.</div></div>
 <div class="dots dots-dark"><i class=""></i><i class=""></i><i class=""></i><i class="on"></i><i class=""></i><i class=""></i><i class=""></i><i class=""></i></div>

diff --git a/app/prod_b3/production_board.html b/app/prod_b3/production_board.html
@@ -94,7 +94,7 @@ section h3.sec{font:600 22px var(--display);margin:0 0 12px}
 @media (prefers-reduced-motion:reduce){*{transition:none!important}}
 .thumb{width:100%;border-radius:8px;border:1px solid var(--line);background:#000}.grp{font:600 11px var(--mono);letter-spacing:.08em;text-transform:uppercase;color:var(--muted);margin:6px 0}</style>
 <div class="wrap">
-<header><div class="logo">مدار</div><div class="hgroup"><div class="k">Creative Production</div><h1>Home Orbit · Batch 3 production (12 static carousels)</h1></div><span class="chip">Updated Nov 16, 18:51 (Saudi)</span><button class="tbtn" id="tt" type="button">Theme</button></header>
+<header><div class="logo">مدار</div><div class="hgroup"><div class="k">Creative Production</div><h1>Home Orbit · Batch 3 production (12 static carousels)</h1></div><span class="chip">Updated Nov 16, 18:59 (Saudi)</span><button class="tbtn" id="tt" type="button">Theme</button></header>
 <nav class="stepper"><div class="st" data-s="done"><span class="dot">✓</span><span class="lbl">Intake &amp; brief</span></div><div class="st" data-s="done"><span class="dot">✓</span><span class="lbl">Visual direction</span></div><div class="st" data-s="done"><span class="dot">✓</span><span class="lbl">Art direction &amp; brand</span></div><div class="st" data-s="done"><span class="dot">✓</span><span class="lbl">Build</span></div><div class="st" data-s="done"><span class="dot">✓</span><span class="lbl">Repurposing</span></div><div class="st" data-s="done"><span class="dot">✓</span><span class="lbl">Creative QA</span></div><div class="st cur" data-s="needs-you"><span class="dot">7</span><span class="lbl">Delivery</span></div></nav>
 <section class="card"><div class="eyebrow">Stage 7 of 7 <span class="pill" data-s="needs-you">needs-you</span></div><h2>Delivery</h2><p class="sub">All 12 carousels are built, QA-checked and zipped in posting order.</p>
 <div class="action"><div class="row"><span class="k">YOUR ACTION</span></div><div>Download the 12 zips I sent in chat, look through the slides, and tell me anything to change. Your call decides what ships.</div></div>

diff --git a/app/production-library/kit_b3/posts/b3p11.py b/app/production-library/kit_b3/posts/b3p11.py
@@ -89,7 +89,6 @@ def small_head_ears(cx, cy, r=150):
              f'<rect x="{-30 + sd * 50}" y="30" width="80" height="40" rx="12" fill="{C["tealMist"]}"/>'
              f'<rect x="-54" y="-40" width="108" height="110" rx="40" fill="{C["sandLight"]}"/>'
              + ''.join(f'<rect x="{-50 + n * 26}" y="{-118 + abs(n - 1.5) * 12:.0f}" width="22" height="110" rx="11" fill="{C["sandLight"]}" transform="rotate({(n - 1.5) * 5} {-39 + n * 26} 0)"/>' for n in range(4))
-             + f'<rect x="{-sd * 70 - 17}" y="-20" width="34" height="84" rx="17" fill="{C["sandLight"]}" transform="rotate({sd * 30} {-sd * 70} 20)"/>'
              + '</g>')
         out += paper(g, T, 3)
     out += drops([(cx - r * 1.3, cy + r * .9), (cx + r * 1.35, cy + r * 1.0), (cx - r * 1.1, cy + r * 1.35)], r=12)
@@ -199,7 +198,7 @@ def slide(ctx):
         html = body_box(ctx, G) + soft_cta(ctx, y=660)
     elif s == 4:
         inside = dryer(760, 900, .36, on=False, name='dryer_in')
-        art = doorway(600, 760, 330, 600, inside) + hand_up(330, 900, 1.05, rot=24, point=True)
+        art = doorway(600, 760, 330, 600, inside) + hand_up(330, 930, 1.05, rot=24, point=False)
         html = body_box(ctx, G)
     elif s == 5:
         art = (dryer(330, 830, .85, on=True) + arcs(330, 830, 215, 1, 50, 20, seed=40)
